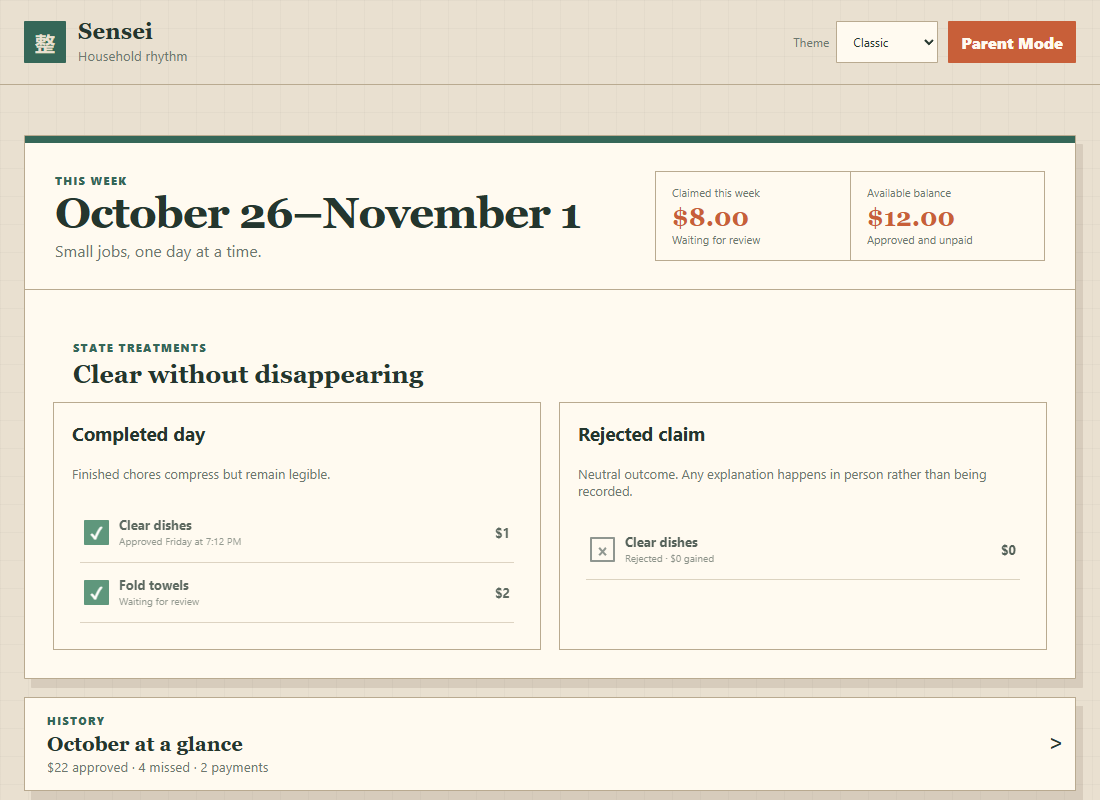
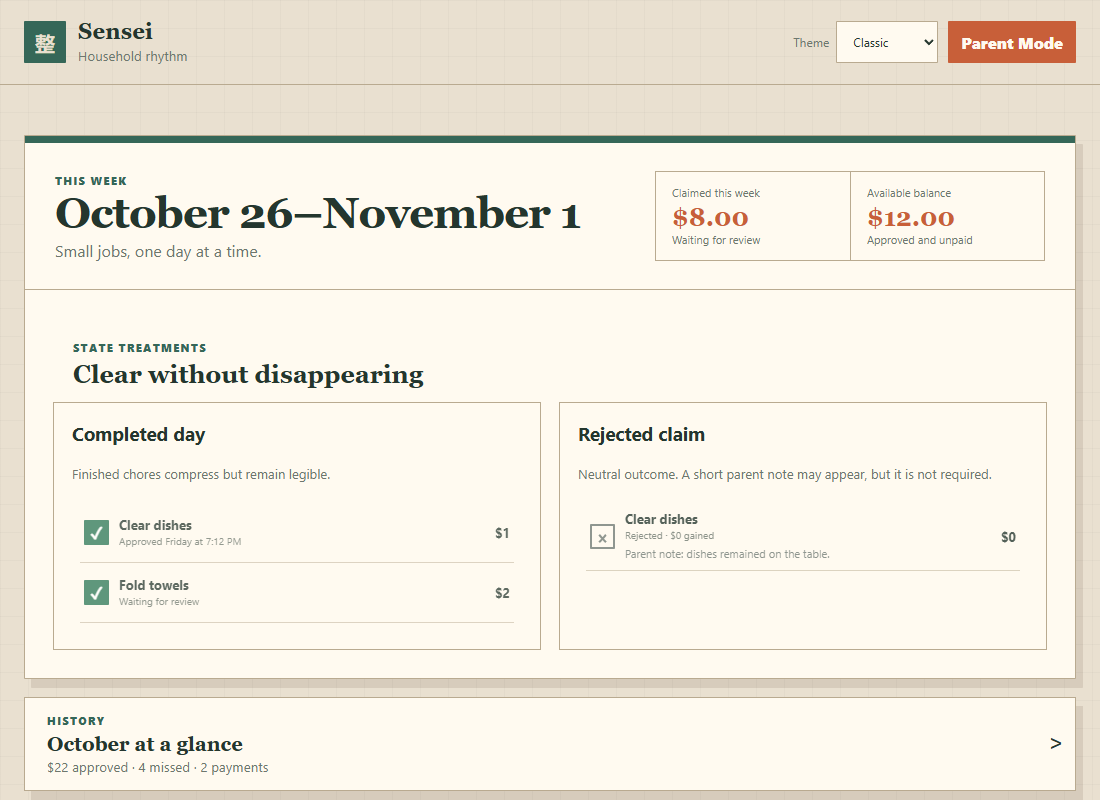
docs: allow optional rejection notes

Changed region(s): [[0.5255, 0.5938, 0.7418, 0.7188], [0.6491, 0.5625, 0.8964, 0.625], [0.8964, 0.6562, 0.9273, 0.7188]]

diff --git a/docs/proposals/frontend-redesign/index.html b/docs/proposals/frontend-redesign/index.html
@@ -162,8 +162,8 @@
               <li class="chore completed"><button aria-label="Clear dishes completed">✓</button><span><strong>Clear dishes</strong><small>Approved Friday at 7:12 PM</small></span><b>$1</b></li>
               <li class="chore completed"><button aria-label="Fold towels completed">✓</button><span><strong>Fold towels</strong><small>Waiting for review</small></span><b>$2</b></li>
             </ul></article>
-            <article><h3>Rejected claim</h3><p>Neutral outcome. Any explanation happens in person rather than being recorded.</p><ul>
-              <li class="chore rejected"><button disabled aria-label="Clear dishes rejected">×</button><span><strong>Clear dishes</strong><small>Rejected · $0 gained</small></span><b>$0</b></li>
+            <article><h3>Rejected claim</h3><p>Neutral outcome. A short parent note may appear, but it is not required.</p><ul>
+              <li class="chore rejected"><button disabled aria-label="Clear dishes rejected">×</button><span><strong>Clear dishes</strong><small>Rejected · $0 gained</small><em>Parent note: dishes remained on the table.</em></span><b>$0</b></li>
             </ul></article>
           </div>
         </section>

diff --git a/docs/proposals/frontend-redesign/DESIGN_SPEC.md b/docs/proposals/frontend-redesign/DESIGN_SPEC.md
@@ -100,7 +100,8 @@ The following are Product Owner-approved and treated as constraints:
 
 - Neutral gray treatment with an `×` or equivalent text-supported marker.
 - Use `Rejected · $0 gained` as the concise outcome.
-- Do not collect or display a written rejection note. The reason is discussed in person.
+- A parent may add a short rejection note, but it is optional. Rejecting a claim must never be blocked because the note is empty.
+- When present, show the note as secondary context. In-person discussion remains the normal path.
 - A rejected claim remains part of chore history and the approval audit context, but creates no allowance-ledger entry and has no balance effect.
 
 ### Future / locked
@@ -290,7 +291,7 @@ These are planning recommendations, not execution authorization.
 
 Approved during prototype review:
 
-1. Rejection reasons are discussed in person. Sensei does not need a stored parent note or written explanation.
+1. Rejection reasons are normally discussed in person. A parent may optionally record a short note, but rejection never requires one.
 2. Rejected chores display `Rejected · $0 gained`.
 3. Detailed allowance Activity opens in a panel.
 4. Rejected claims remain available in chore history/audit context but do not appear as balance-sheet entries and never affect the allowance balance.

diff --git a/docs/proposals/frontend-redesign/REVIEW_HANDOFF.md b/docs/proposals/frontend-redesign/REVIEW_HANDOFF.md
@@ -15,7 +15,7 @@ Review the frontend redesign proposal in this directory as a candidate direction
 
 ## Approved Product Owner clarifications
 
-- Rejection explanations are discussed in person; no stored note is needed.
+- Rejection explanations are normally discussed in person; a short stored note is optional and never required.
 - Rejected chores display `Rejected · $0 gained`.
 - Rejected chores may remain in chore history/audit context but must not create allowance-ledger entries or affect the balance.
 - Detailed allowance Activity opens in a panel.
